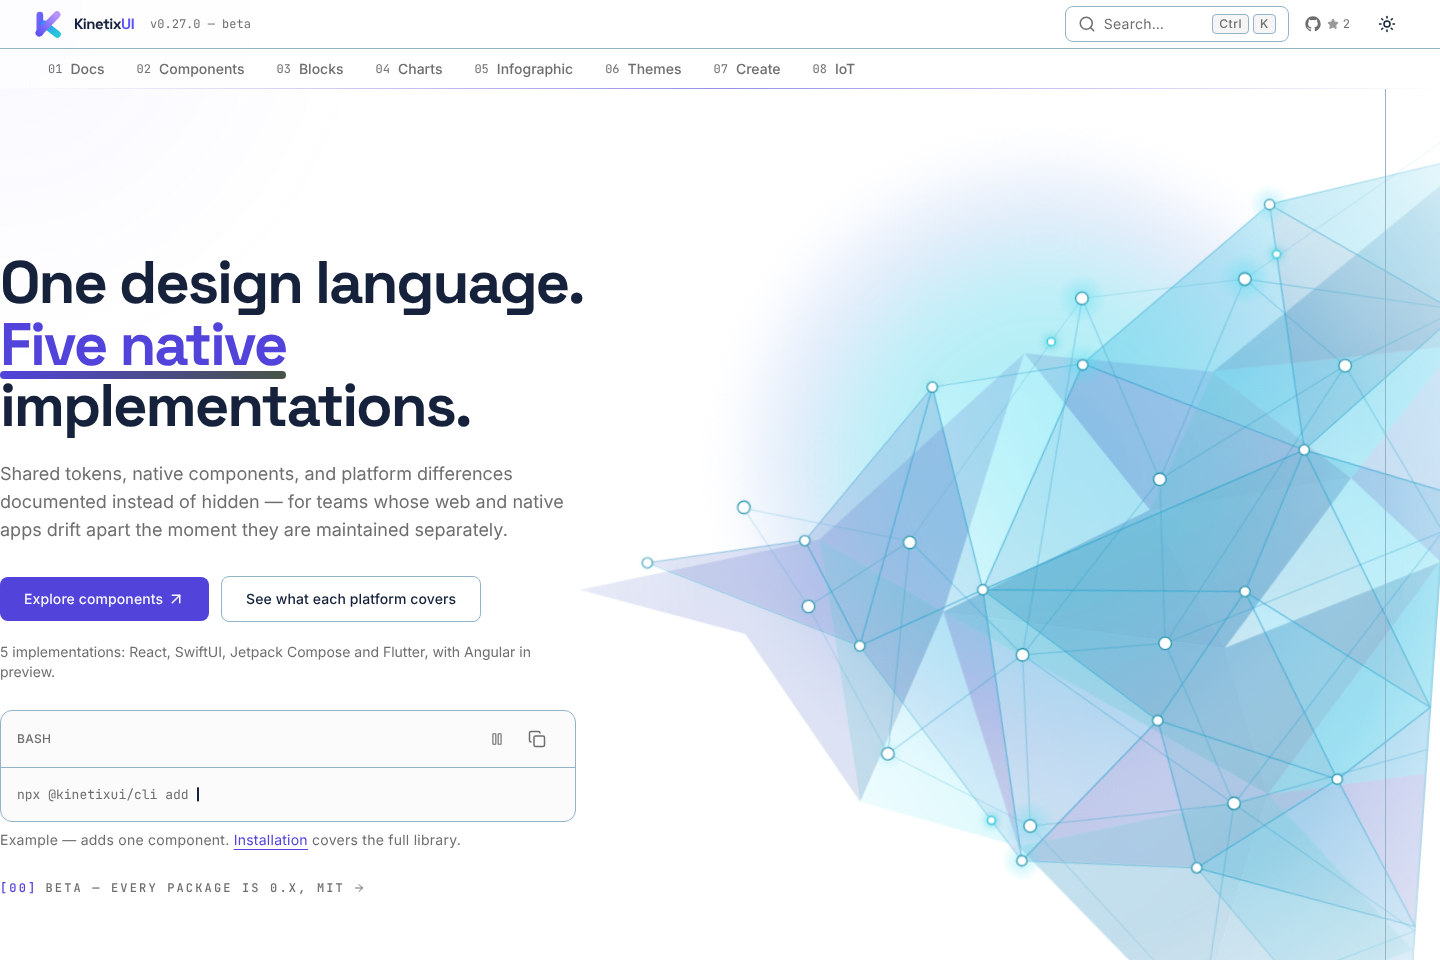
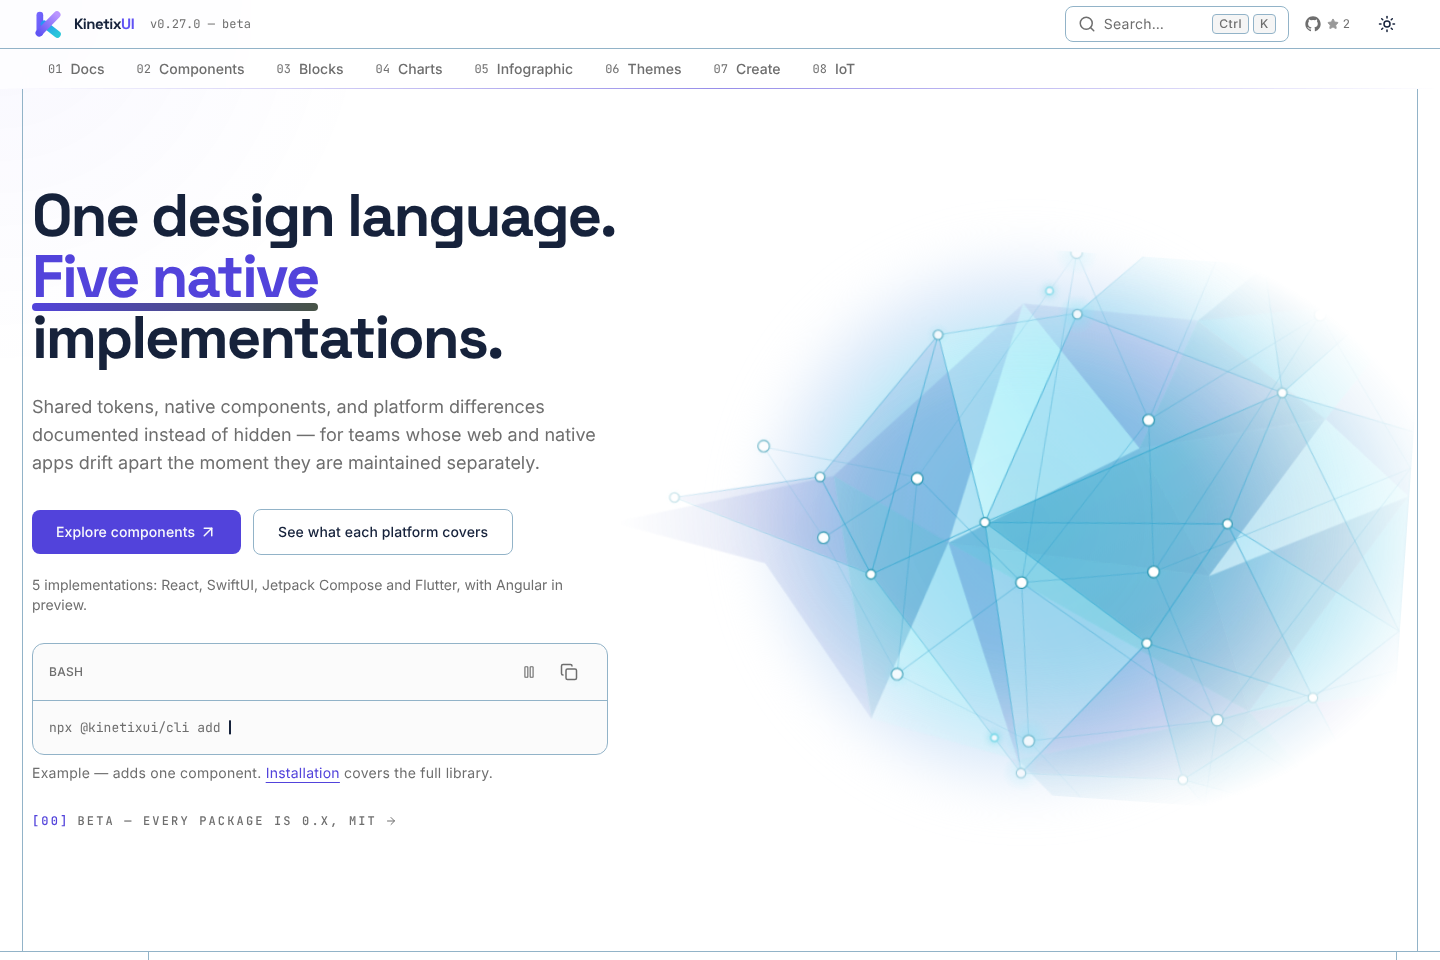
fix(web): the hero's first view fits the viewport and the artwork ends in a fade
Ziad reported the homepage first view as cropped: the polygon artwork cut off at
the right and the bottom, the headline sitting low under a large empty area, and
the install command cut by the fold.

ROOT CAUSE. The supplied mesh is portrait — its viewBox is 741.71 x 860.74, 1.16
times taller than wide — and it was laid out `width: 100%; height: auto` in the
wider of the hero's two columns. Its height was therefore its width times 1.16,
and a grid row takes the taller of its items, so a portrait illustration set the
height of a landscape first view. Measured at 1920x1030 before the fix: the
polygon column stood 1279px against a copy column of 670px, the hero section
916px taller than it needed to be at 1365px in a 1030px viewport, the closing
ticker band 423px below the fold, and `align-items: center` turned half of the
609px mismatch into 304px of dead space — the headline began 394px down.

The crop was measured, not inferred: 841 of 1030 right-edge pixels carried the
artwork's own ink at 1920x1030 (732/900 at 1440x900, 609/768 at 1366x768), with
the ink profile across the last 80px reading 364, 346, 332, 314, 274 and then 14
one step past the box — a flat cut, not the dissolve the stylesheet claimed.

Two causes separated by mutation, one rejected. Removing the negative block
margins made every number worse, so they are mitigating rather than causal.
`align-items: center` is a contributing factor: on its own it moves the headline
[…]

diff --git a/apps/web/src/app/brand-hero.css b/apps/web/src/app/brand-hero.css
@@ -267,31 +267,121 @@
     grid-template-columns: minmax(0, 1fr) minmax(0, 1.16fr);
     gap: 1.9rem;
     align-items: center;
+
+    /* The hero's vertical rhythm is a function of the first view, not a constant. At a desktop
+       height it is the generous 6rem the composition wants; on a short laptop it gives those
+       rem back so the install command and the beta line still land above the fold. One
+       expression rather than a height breakpoint, so there is no step to land on the wrong
+       side of. The copy column's own height is what it cannot buy back: below roughly 800px of
+       viewport height the column alone is taller than the first view, which is a copy-length
+       fact, not a layout one. */
+    padding-block: clamp(1.5rem, 100svh - 47rem, 6rem);
   }
-  /* The mesh breaks its column so it reads as part of the page rather than a
-     picture in a box: out past the right edge, and down past the copy's lower
-     margin, which the supplied silhouette already thins out to meet.
 
-     The end margin eats the container's own right gutter and then 4rem more,
-     which is why it is a calc rather than a clamp: `50vw - min(50vw, 48rem)` IS
-     that gutter, so the bleed grows with the viewport instead of stopping where
-     the container stops. Without it the mesh shrank as a share of the hero on
-     every width past the container cap — the section spans the viewport while
-     the artwork was still confined to the centred column. Measured share of the
-     hero's area, mesh box over section box, on this build: 62.6% at 1440,
-     62.3% at 1600, 61.4% at 1920, 60.2% at 2560 — the 55-65% the owner asked
-     for, held across the desktop range rather than at one width. Below 1440 it
-     falls to 52% at 1280 and 42% at 1024, deliberately: that is where the copy
-     column needs the room back, and the headline wins it.
+  /* The mesh breaks its column so it reads as part of the page rather than a picture in a box:
+     out past the container's right gutter, and up and down past the copy's margins.
 
-     No facet, link or junction box overlaps the headline, lede, platform line,
-     CTAs or install link at any of those widths; scripts/.probe4 measured 0%
-     everywhere from 1024 to 2560 except a 1% graze one step wider than this,
-     which is why this stops at 1.16fr. check:home-systems independently holds
-     the lede's rendered contrast against whatever the aura puts behind it. */
+     `block-size` is the load-bearing line. The supplied artwork is portrait — its viewBox is
+     741.71 × 860.74, 1.16 times taller than wide — and it used to be laid out `width: 100%;
+     height: auto` inside the wider of the two columns. Its height was therefore its width times
+     1.16, and since the grid row takes the taller of its two items, a portrait illustration set
+     the height of a landscape first view. Measured on the pre-fix build at 1920×1030: the
+     polygon column was 1279px against a copy column of 670px, so the hero section stood 1365px
+     tall in a 1030px viewport — the ticker band that closes it fell 423px below the fold, the
+     install command fell below it at several widths, and `align-items: center` turned half of
+     the 609px mismatch into 304px of dead space above the headline (the headline began 394px
+     down the viewport; with the mismatch gone it begins at 153px).
+
+     So the artwork takes a budget from the first view instead of setting it. The box stays
+     landscape, the copy column is what the row measures, and the mesh fills the box by its own
+     proportions (`preserveAspectRatio="xMidYMid slice"` on the svg) rather than being scaled
+     down to fit inside it.
+
+     The end margin eats the container's own right gutter — `50vw - min(50vw, 48rem)` IS that
+     gutter — so the bleed grows with the viewport instead of stopping where the container stops.
+     It no longer takes a further 4rem past that: the box's right edge now lands on the viewport's
+     right edge, which is what lets the mask's own fade be the end of the picture. With the extra
+     4rem the box ended 75px outside the viewport, where the mask is still opaque, and the
+     viewport sliced the mesh off flat — 841 of 1030 right-edge pixels carried mesh ink at
+     1920×1030, 732 of 900 at 1440×900, 609 of 768 at 1366×768. It is 0 at every width now.
+
+     The 4rem block margins stay: they let the artwork run past the copy's margins without adding
+     to the row.
+
+     WHAT THIS COSTS, stated rather than buried. Share of the hero's area, mesh box over section
+     box: 32.8% at 1440, 32.6% at 1600, 32.1% at 1920, 31.5% at 2560, 24.5% at 1280, 23.4% at
+     1024. The comment this replaces recorded 62.6%, 62.3%, 61.4% and 60.2% at the first four,
+     against a 55-65% the owner asked for. That target and a first view that fits are mutually
+     exclusive at these proportions, and the arithmetic says so rather than the taste: at
+     1920x1030 the hero section is 1920 x 916, so a 60% share needs a box of 1.05M px², and at
+     the 1038px width the columns give it that box would have to stand 1017px tall — taller than
+     the section that contains it, which is the condition that put the hero over the fold in the
+     first place. Getting the larger artwork back means the first view gives up either its
+     closing ticker band or some of the copy column; that is an owner's call, not this slice's.
+
+     `check:home-systems` holds what actually matters about the overlap — the lede paragraph's
+     rendered contrast against whatever the decoration puts behind it, at five widths — and the
+     glow's own placement against the copy column. */
   .kx-hero-polygon {
-    margin-inline-end: calc(-1 * (50vw - min(50vw, 48rem)) - 4rem);
+    block-size: clamp(20rem, 100svh - 22rem, 34rem);
+    margin-inline-end: calc(-1 * (50vw - min(50vw, 48rem)));
     margin-block: -4rem;
+  }
+  .kx-hero-mesh {
+    block-size: 100%;
+    inline-size: 100%;
+    /* slice only crops if the svg clips. Below this breakpoint the box still takes the artwork's
+       own aspect ratio, so nothing is outside the viewport to clip and `overflow: visible` stays. */
+    overflow: hidden;
+
+    /* The dissolve, re-struck for a landscape box — and for the first time actually reaching zero
+       inside it. A radial-gradient's `78% 72%` are RADII, not the span of the box, so the old
+       ellipse's horizontal radius was 78% of the width measured out from 46%: it reached its
+       transparent stop at 46 + 0.97 x 78 = 122% of the box, well outside it. The mask therefore
+       faded nothing, and what ended the picture was the box's own edge. Measured on the right-hand
+       ink profile at 1920x1030: 364, 346, 332, 314, 274 in the last 80px and then 14 one step
+       past the edge — a cut, not a dissolve, which is what the hero read as.
+
+       These radii put the transparent stop at 47 + 0.97 x 54 = 99% of the width and 50 + 0.97 x 58
+       = 106% of the height, so the fade completes on the inline edges, where the artwork meets the
+       page, and stays full-bleed on the block edges, where it meets the hero's own bounds. Same
+       profile after: 185, 162, 131, 116, 80, 59, 0. */
+    -webkit-mask-image: radial-gradient(ellipse 54% 58% at 47% 50%, #000 0%, #000 40%, #0009 70%, #0000 97%);
+    mask-image: radial-gradient(ellipse 54% 58% at 47% 50%, #000 0%, #000 40%, #0009 70%, #0000 97%);
+  }
+  /* The aura is a wash behind the mesh, so it belongs to the box, not to the box's width. While
+     it was a square struck off `inline-size`, a landscape box made it taller than the box it sits
+     in, and its blurred lower edge ran past the fold — 341 of 1536 bottom-edge pixels at
+     1536×864.
+
+     Sized in both axes, and held by three measurements at once rather than by taste. The wash has
+     to stay visible (`check:home-systems` wants a peak channel shift of at least 55 and at most
+     110), stay off the copy column (under 10% of it), and stay inside the first view at every
+     width the gate below covers.
+
+     A landscape box is smaller than the square this used to strike off `inline-size`, so the same
+     gradient in it measured only 51 — under the floor. Area could not buy that back: 92% x 135%
+     reached 64 but put its blurred lower edge through the fold at 1280x720 (164 pixels, caught by
+     the gate below), and 110% x 118% reached 66 but washed 16.2% of the copy column. Blur is not
+     the lever either — 22px, 16px, 12px, 8px and 5px all measure 56 on this geometry, because the
+     gradient's centre is already its brightest pixel.
+
+     So the geometry is the conservative one that satisfies the other two constraints — 4% to 100%
+     of the box inline, barely past it in block, measuring 1.3% of the copy column and zero ink on
+     the fold and on both inline edges at 1280x720, 1024x768, 1366x768 and 1920x1030 — and the core
+     is a little more saturated to put the wash back where it was. Measured: 71 light, 67 dark,
+     against the 75 this decoration shipped at before the first view was fixed. The band is
+     untouched; this restores a value inside it rather than moving it. */
+  .kx-polygon-aura {
+    aspect-ratio: auto;
+    inline-size: 96%;
+    block-size: 105%;
+    inset-inline-start: 4%;
+    top: -2%;
+    background: radial-gradient(circle closest-side, #8ce4f2 0%, #a9ebf6 52%, #d2e3f8c4 78%, #d9e5f800 100%);
+  }
+  .dark .kx-polygon-aura {
+    background: radial-gradient(circle closest-side, #28c7d994 0%, #6054f46e 54%, #6054f42f 80%, #6054f400 100%);
   }
 }
 @media (min-width: 90rem) {

diff --git a/apps/web/src/components/hero-polygon.tsx b/apps/web/src/components/hero-polygon.tsx
@@ -141,7 +141,22 @@ export function HeroPolygon() {
   return (
     <div ref={root} className="kx-hero-polygon" data-running={running}>
       <div className="kx-polygon-aura" aria-hidden="true" />
-      <svg className="kx-hero-mesh" viewBox={mesh.viewBox} aria-hidden="true" focusable="false" role="presentation">
+      {/*
+        `slice`: the artwork keeps its own proportions and fills whatever box the layout gives it,
+        rather than the box growing to the artwork's portrait aspect ratio. Above `lg-rem` that box is
+        landscape and height-budgeted (brand-hero.css), so the supplied mesh is framed rather than
+        scaled down to a stamp. What falls outside the frame is ended by the radial mask's fade, not by
+        the frame's edge — `check:rebrand-hero` measures that no mesh ink reaches the viewport's edge.
+        Below `lg-rem` the box still takes the artwork's own aspect ratio, so slice and meet agree there.
+      */}
+      <svg
+        className="kx-hero-mesh"
+        viewBox={mesh.viewBox}
+        preserveAspectRatio="xMidYMid slice"
+        aria-hidden="true"
+        focusable="false"
+        role="presentation"
+      >
         <defs>
           {/* Four facet materials, from the deepest return face to the
               highlight. Stop colours come from CSS so the dark theme re-tints

diff --git a/apps/web/src/app/page.tsx b/apps/web/src/app/page.tsx
@@ -183,7 +183,10 @@ export default function HomePage() {
             have to land in the first viewport, so the copy column comes first in the DOM and the system map
             follows it — beside it once there is room, below it on a phone.
           */}
-          <div className="kx-brand-hero-grid grid grid-cols-1 gap-6 pt-12 sm:pt-16 lg-rem:py-24">
+          {/* Above `lg-rem` the vertical rhythm is viewport-derived and owned by brand-hero.css, which is
+              why there is no `lg-rem:py-*` here: a fixed desktop padding cannot give room back on a
+              short laptop, which is where the install command was falling below the fold. */}
+          <div className="kx-brand-hero-grid grid grid-cols-1 gap-6 pt-12 sm:pt-16">
             {/* a size container: the headline is sized against this column, so its longest word always fits it */}
             {/* `data-hero-copy`: what the hero's decoration must stay off below `lg-rem`, which check:home-systems asserts */}
             <div data-hero-copy className="kx-brand-hero-copy relative z-10 max-w-3xl [container-type:inline-size]">
